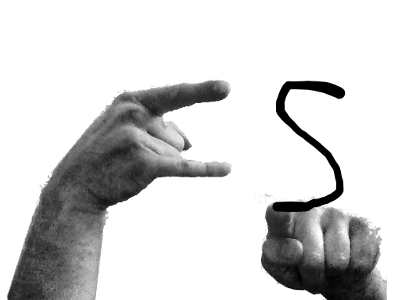
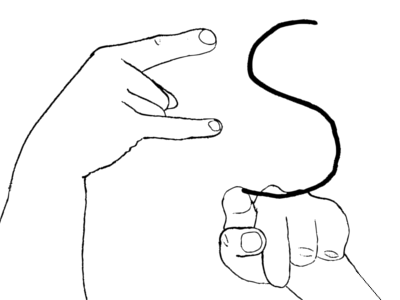
Improve break signs
* Introduce all missing signs
* Give more space to break signs in UI

diff --git a/index.html b/index.html
@@ -4,7 +4,8 @@
   <title>Jukebox Yolande</title>
   <meta charset="UTF-8">
   <meta name="viewport" content="width=device-width, initial-scale=1">
-  <link rel="stylesheet" href="./assets/css/w3.css"> 
+  <link rel="stylesheet" href="./assets/css/w3.css">
+  <link rel="stylesheet" href="./assets/css/home.css">
 </head>
 <body>
   <div id="content">
@@ -19,83 +20,11 @@
       </div>
     </div>
 
-    <ul class="w3-ul w3-border" id="breaks_list">
-      <h2>Les breaks 👇</h2>
-    </ul>
+    <h2>Les breaks 👇</h2>
+    <ul class="w3-border" id="breaks_list" />
 
   </div>
 
-  <style type="text/css">
-
-    body {
-      background: #D23789;
-      background-image: url("./assets/img/zebra.svg");
-      background-size: cover;
-      margin: 10px;
-    }
-    .logo-main {
-      width: 80px;
-      margin-right: 20px;
-    }
-    .logo-break {
-      width: 120px;
-    }
-    .li-break {
-      align-items: center;
-      display: flex;
-      flex-direction: row;
-    }
-    #content {
-      background: white;
-    }
-    h1 {
-      display: flex;
-      justify-content: center;
-      align-items: center;
-      padding: 10px;
-      margin-top: 0px;
-      margin-bottom: 0px;
-    }
-    h2 {
-      display: flex;
-      justify-content: center;
-      align-items: center;
-      font-size: 28px;
-      padding: 5px;
-    }
-    a {
-      text-decoration: none;
-    }
-    .label {
-      color: #F0F;
-      font-weight: bold;
-      font-size: x-small;
-      text-transform: uppercase;
-      margin-left: 5px;
-    }
-    .li-break:hover .label {
-      color: #FFF;
-    }
-    .note {
-      display: flex;
-      justify-content: center;
-      margin-top: 30px;
-    }
-
-    @media (min-width: 500px) {
-      #content {
-        width: 80%;
-        margin-left: auto;
-        margin-right: auto;
-      }
-    }
-
-    @media (min-width: 900px) {
-      #content {
-        width: 60%;
-      }
-    }
-  </style>
   <script>
     fetch("breaks.json")
       .then(response => response.json())
@@ -111,16 +40,16 @@
         let link = document.createElement("a")
           link.href = "./jukebox.html?break_id=" + break_id
           let listItem = document.createElement("li")
-            listItem.classList.add("li-break")
-            listItem.classList.add("w3-hover-pink")
+            // listItem.classList.add("li-break")
+            listItem.classList.add("w3-card")
             let sign = document.createElement("img")
-              sign.classList.add("logo-break")
+              sign.classList.add("item-logo")
               sign.src = brk["sign"]
               sign.alt = "Signe du break " + brk["name"]
             listItem.appendChild(sign)
             let breakDiv = document.createElement("div")
               let title = document.createElement("span")
-                title.classList.add("w3-large")
+                title.classList.add("item-title")
                 title.innerHTML = brk["name"]
                 if(!!brk["new"])
                 {

diff --git a/assets/css/home.css b/assets/css/home.css
@@ -1,0 +1,90 @@
+body {
+  background: #D23789;
+  background-image: url("../img/zebra.svg");
+  background-size: cover;
+  margin: 10px;
+}
+h1 {
+  display: flex;
+  justify-content: center;
+  align-items: center;
+  padding: 10px;
+  margin-top: 0px;
+  margin-bottom: 0px;
+}
+h2 {
+  display: flex;
+  justify-content: center;
+  align-items: center;
+  font-size: 28px;
+  padding: 5px;
+}
+a {
+  text-decoration: none;
+}
+#content {
+  background: white;
+}
+.logo-main {
+  width: 80px;
+  margin-right: 20px;
+}
+ul {
+  padding: 0px;
+  display: flex;
+  flex-wrap: wrap;
+  justify-content: space-around;
+}
+li {
+  align-items: center;
+  display: flex;
+  flex-direction: column;
+  margin: 10px;
+  padding: 10px;
+}
+.item-logo {
+  width: 300px;
+  background-color: #ccc;
+}
+li {
+  color: #000;
+}
+.label {
+  color: #D23789;
+  font-weight: bold;
+  font-size: x-small;
+  text-transform: uppercase;
+  margin-left: 5px;
+}
+li:hover {
+  background-color: #D23789;
+  color: #FFF;
+}
+li:hover .label {
+  color: #FFF;
+}
+li:hover .item-logo {
+  border-style: solid;
+  border-color: #000;
+  border-width: 1px;
+}
+
+.note {
+  display: flex;
+  justify-content: center;
+  margin-top: 30px;
+}
+
+@media (min-width: 500px) {
+  #content {
+    width: 80%;
+    margin-left: auto;
+    margin-right: auto;
+  }
+}
+
+@media (min-width: 900px) {
+  #content {
+    width: 60%;
+  }
+}

diff --git a/jukebox.html b/jukebox.html
@@ -9,10 +9,10 @@
 <body>
   <div id="content">
     <div id="title-block">
-      <h1 id="title-text">Nom du break</h1>
       <div id="title-img-wrapper">
         <img id="title-img" src="./assets/img/yolande.png" class="logo">
       </div>
+      <h1 id="title-text">Nom du break</h1>
     </div>
 
     <div id="speed-controls">
@@ -47,8 +47,6 @@
       display: flex;
       align-items: center;
       justify-content: center;
-      padding: 10px;
-      margin-left: 35px;
     }
     h1 {
       font-family: "Segoe UI",Arial,sans-serif;
@@ -59,12 +57,14 @@
     }
     #title-text {
       flex: 1 1;
+      margin-left: 20px;
     }
     #title-img-wrapper {
       flex: 0 0;
     }
     #title-img {
-      height: 80px;
+      background-color: #ccc;
+      width: 120px;
     }
 
     #speed-controls {
@@ -131,11 +131,19 @@
         margin-left: auto;
         margin-right: auto;
       }
+      #title-img {
+        width: 200px;
+        margin: 5px;
+      }
     }
 
     @media (min-width: 900px) {
       #content {
         width: 60%;
+      }
+      #title-img {
+        width: 240px;
+        margin: 10px;
       }
     }
   </style>
